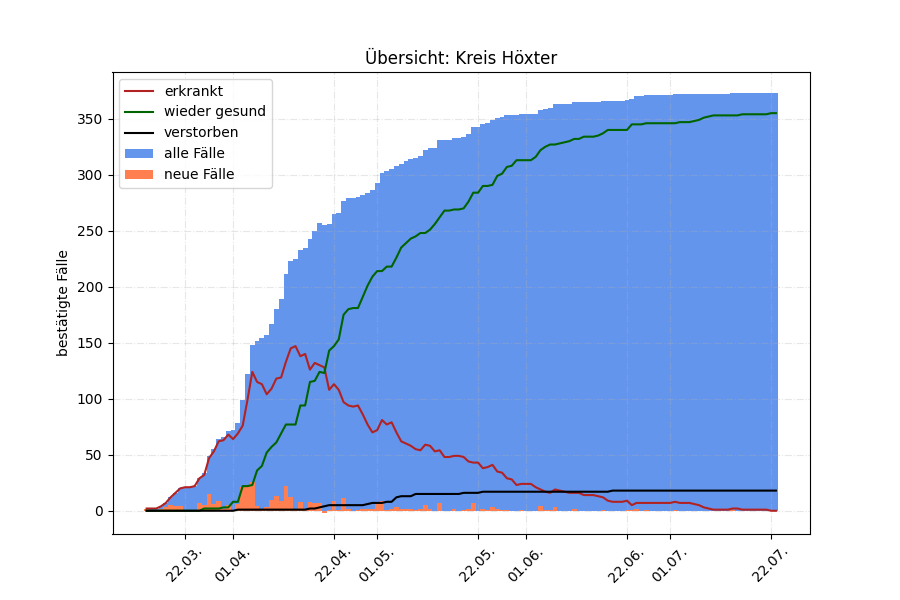
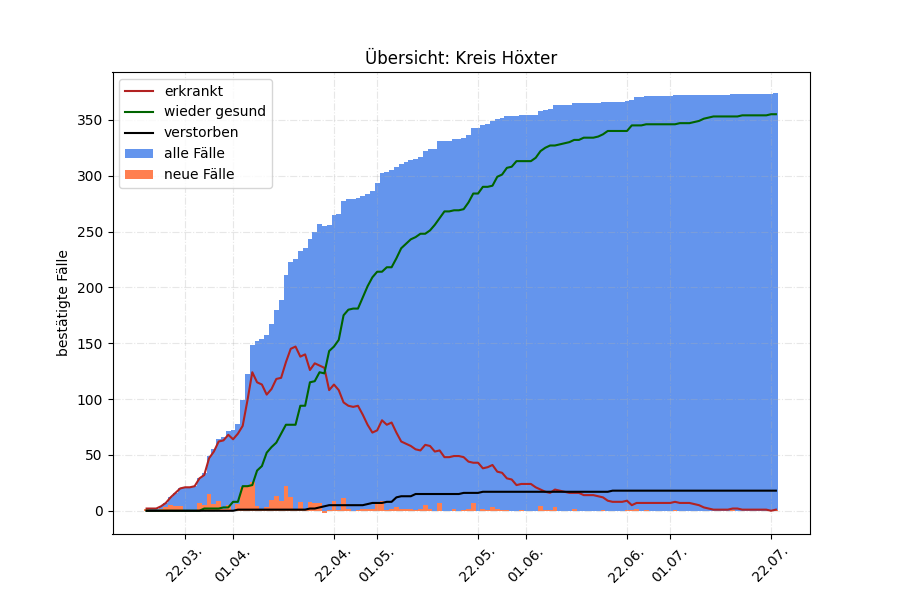
Stand 23. Juli 2

diff --git a/communes/marienmuenster.html b/communes/marienmuenster.html
@@ -18,10 +18,10 @@
 <meta property="og:url" content="https://covidoplot.github.io/communes/marienmuenster.html" />
 <meta property="og:site_name" content="Covid 19 im Kreis Höxter" />
 <meta property="og:type" content="article" />
-<meta property="article:published_time" content="2020-07-23T09:10:51+02:00" />
+<meta property="article:published_time" content="2020-07-23T09:16:53+02:00" />
 <meta name="google-site-verification" content="Jy9GjP1zJSZb24WTJkI5fc6zPYqWLYs0bo6EZXmsmKY" />
 <script type="application/ld+json">
-{"url":"https://covidoplot.github.io/communes/marienmuenster.html","headline":"Marienmünster","dateModified":"2020-07-23T09:10:51+02:00","datePublished":"2020-07-23T09:10:51+02:00","mainEntityOfPage":{"@type":"WebPage","@id":"https://covidoplot.github.io/communes/marienmuenster.html"},"author":{"@type":"Person","name":"Elmar Hinz"},"description":"Daten und Diagramme zur Coronavirus-Krankheit 2019 in Marienmünster","@type":"BlogPosting","@context":"https://schema.org"}</script>
+{"url":"https://covidoplot.github.io/communes/marienmuenster.html","headline":"Marienmünster","dateModified":"2020-07-23T09:16:53+02:00","datePublished":"2020-07-23T09:16:53+02:00","mainEntityOfPage":{"@type":"WebPage","@id":"https://covidoplot.github.io/communes/marienmuenster.html"},"author":{"@type":"Person","name":"Elmar Hinz"},"description":"Daten und Diagramme zur Coronavirus-Krankheit 2019 in Marienmünster","@type":"BlogPosting","@context":"https://schema.org"}</script>
 <!-- End Jekyll SEO tag -->
 
 </head>

diff --git a/communes/willebadessen.html b/communes/willebadessen.html
@@ -18,10 +18,10 @@
 <meta property="og:url" content="https://covidoplot.github.io/communes/willebadessen.html" />
 <meta property="og:site_name" content="Covid 19 im Kreis Höxter" />
 <meta property="og:type" content="article" />
-<meta property="article:published_time" content="2020-07-23T09:10:51+02:00" />
+<meta property="article:published_time" content="2020-07-23T09:16:53+02:00" />
 <meta name="google-site-verification" content="Jy9GjP1zJSZb24WTJkI5fc6zPYqWLYs0bo6EZXmsmKY" />
 <script type="application/ld+json">
-{"url":"https://covidoplot.github.io/communes/willebadessen.html","headline":"Willebadessen","dateModified":"2020-07-23T09:10:51+02:00","datePublished":"2020-07-23T09:10:51+02:00","mainEntityOfPage":{"@type":"WebPage","@id":"https://covidoplot.github.io/communes/willebadessen.html"},"author":{"@type":"Person","name":"Elmar Hinz"},"description":"Daten und Diagramme zur Coronavirus-Krankheit 2019 in Willebadessen","@type":"BlogPosting","@context":"https://schema.org"}</script>
+{"url":"https://covidoplot.github.io/communes/willebadessen.html","headline":"Willebadessen","dateModified":"2020-07-23T09:16:53+02:00","datePublished":"2020-07-23T09:16:53+02:00","mainEntityOfPage":{"@type":"WebPage","@id":"https://covidoplot.github.io/communes/willebadessen.html"},"author":{"@type":"Person","name":"Elmar Hinz"},"description":"Daten und Diagramme zur Coronavirus-Krankheit 2019 in Willebadessen","@type":"BlogPosting","@context":"https://schema.org"}</script>
 <!-- End Jekyll SEO tag -->
 
 </head>

diff --git a/communes/borgentreich.html b/communes/borgentreich.html
@@ -18,10 +18,10 @@
 <meta property="og:url" content="https://covidoplot.github.io/communes/borgentreich.html" />
 <meta property="og:site_name" content="Covid 19 im Kreis Höxter" />
 <meta property="og:type" content="article" />
-<meta property="article:published_time" content="2020-07-23T09:10:51+02:00" />
+<meta property="article:published_time" content="2020-07-23T09:16:53+02:00" />
 <meta name="google-site-verification" content="Jy9GjP1zJSZb24WTJkI5fc6zPYqWLYs0bo6EZXmsmKY" />
 <script type="application/ld+json">
-{"url":"https://covidoplot.github.io/communes/borgentreich.html","headline":"Borgentreich","dateModified":"2020-07-23T09:10:51+02:00","datePublished":"2020-07-23T09:10:51+02:00","mainEntityOfPage":{"@type":"WebPage","@id":"https://covidoplot.github.io/communes/borgentreich.html"},"author":{"@type":"Person","name":"Elmar Hinz"},"description":"Daten und Diagramme zur Coronavirus-Krankheit 2019 in Borgentreich","@type":"BlogPosting","@context":"https://schema.org"}</script>
+{"url":"https://covidoplot.github.io/communes/borgentreich.html","headline":"Borgentreich","dateModified":"2020-07-23T09:16:53+02:00","datePublished":"2020-07-23T09:16:53+02:00","mainEntityOfPage":{"@type":"WebPage","@id":"https://covidoplot.github.io/communes/borgentreich.html"},"author":{"@type":"Person","name":"Elmar Hinz"},"description":"Daten und Diagramme zur Coronavirus-Krankheit 2019 in Borgentreich","@type":"BlogPosting","@context":"https://schema.org"}</script>
 <!-- End Jekyll SEO tag -->
 
 </head>

diff --git a/communes/bad-driburg.html b/communes/bad-driburg.html
@@ -18,10 +18,10 @@
 <meta property="og:url" content="https://covidoplot.github.io/communes/bad-driburg.html" />
 <meta property="og:site_name" content="Covid 19 im Kreis Höxter" />
 <meta property="og:type" content="article" />
-<meta property="article:published_time" content="2020-07-23T09:10:51+02:00" />
+<meta property="article:published_time" content="2020-07-23T09:16:53+02:00" />
 <meta name="google-site-verification" content="Jy9GjP1zJSZb24WTJkI5fc6zPYqWLYs0bo6EZXmsmKY" />
 <script type="application/ld+json">
-{"url":"https://covidoplot.github.io/communes/bad-driburg.html","headline":"Bad Driburg","dateModified":"2020-07-23T09:10:51+02:00","datePublished":"2020-07-23T09:10:51+02:00","mainEntityOfPage":{"@type":"WebPage","@id":"https://covidoplot.github.io/communes/bad-driburg.html"},"author":{"@type":"Person","name":"Elmar Hinz"},"description":"Daten und Diagramme zur Coronavirus-Krankheit 2019 in Bad Driburg","@type":"BlogPosting","@context":"https://schema.org"}</script>
+{"url":"https://covidoplot.github.io/communes/bad-driburg.html","headline":"Bad Driburg","dateModified":"2020-07-23T09:16:53+02:00","datePublished":"2020-07-23T09:16:53+02:00","mainEntityOfPage":{"@type":"WebPage","@id":"https://covidoplot.github.io/communes/bad-driburg.html"},"author":{"@type":"Person","name":"Elmar Hinz"},"description":"Daten und Diagramme zur Coronavirus-Krankheit 2019 in Bad Driburg","@type":"BlogPosting","@context":"https://schema.org"}</script>
 <!-- End Jekyll SEO tag -->
 
 </head>

diff --git a/communes/beverungen.html b/communes/beverungen.html
@@ -18,10 +18,10 @@
 <meta property="og:url" content="https://covidoplot.github.io/communes/beverungen.html" />
 <meta property="og:site_name" content="Covid 19 im Kreis Höxter" />
 <meta property="og:type" content="article" />
-<meta property="article:published_time" content="2020-07-23T09:10:51+02:00" />
+<meta property="article:published_time" content="2020-07-23T09:16:53+02:00" />
 <meta name="google-site-verification" content="Jy9GjP1zJSZb24WTJkI5fc6zPYqWLYs0bo6EZXmsmKY" />
 <script type="application/ld+json">
-{"url":"https://covidoplot.github.io/communes/beverungen.html","headline":"Beverungen","dateModified":"2020-07-23T09:10:51+02:00","datePublished":"2020-07-23T09:10:51+02:00","mainEntityOfPage":{"@type":"WebPage","@id":"https://covidoplot.github.io/communes/beverungen.html"},"author":{"@type":"Person","name":"Elmar Hinz"},"description":"Daten und Diagramme zur Coronavirus-Krankheit 2019 in Beverungen","@type":"BlogPosting","@context":"https://schema.org"}</script>
+{"url":"https://covidoplot.github.io/communes/beverungen.html","headline":"Beverungen","dateModified":"2020-07-23T09:16:53+02:00","datePublished":"2020-07-23T09:16:53+02:00","mainEntityOfPage":{"@type":"WebPage","@id":"https://covidoplot.github.io/communes/beverungen.html"},"author":{"@type":"Person","name":"Elmar Hinz"},"description":"Daten und Diagramme zur Coronavirus-Krankheit 2019 in Beverungen","@type":"BlogPosting","@context":"https://schema.org"}</script>
 <!-- End Jekyll SEO tag -->
 
 </head>

diff --git a/communes/steinheim.html b/communes/steinheim.html
@@ -18,10 +18,10 @@
 <meta property="og:url" content="https://covidoplot.github.io/communes/steinheim.html" />
 <meta property="og:site_name" content="Covid 19 im Kreis Höxter" />
 <meta property="og:type" content="article" />
-<meta property="article:published_time" content="2020-07-23T09:10:51+02:00" />
+<meta property="article:published_time" content="2020-07-23T09:16:53+02:00" />
 <meta name="google-site-verification" content="Jy9GjP1zJSZb24WTJkI5fc6zPYqWLYs0bo6EZXmsmKY" />
 <script type="application/ld+json">
-{"url":"https://covidoplot.github.io/communes/steinheim.html","headline":"Steinheim","dateModified":"2020-07-23T09:10:51+02:00","datePublished":"2020-07-23T09:10:51+02:00","mainEntityOfPage":{"@type":"WebPage","@id":"https://covidoplot.github.io/communes/steinheim.html"},"author":{"@type":"Person","name":"Elmar Hinz"},"description":"Daten und Diagramme zur Coronavirus-Krankheit 2019 in Steinheim","@type":"BlogPosting","@context":"https://schema.org"}</script>
+{"url":"https://covidoplot.github.io/communes/steinheim.html","headline":"Steinheim","dateModified":"2020-07-23T09:16:53+02:00","datePublished":"2020-07-23T09:16:53+02:00","mainEntityOfPage":{"@type":"WebPage","@id":"https://covidoplot.github.io/communes/steinheim.html"},"author":{"@type":"Person","name":"Elmar Hinz"},"description":"Daten und Diagramme zur Coronavirus-Krankheit 2019 in Steinheim","@type":"BlogPosting","@context":"https://schema.org"}</script>
 <!-- End Jekyll SEO tag -->
 
 </head>

diff --git a/communes/hoexter.html b/communes/hoexter.html
@@ -18,10 +18,10 @@
 <meta property="og:url" content="https://covidoplot.github.io/communes/hoexter.html" />
 <meta property="og:site_name" content="Covid 19 im Kreis Höxter" />
 <meta property="og:type" content="article" />
-<meta property="article:published_time" content="2020-07-23T09:10:51+02:00" />
+<meta property="article:published_time" content="2020-07-23T09:16:53+02:00" />
 <meta name="google-site-verification" content="Jy9GjP1zJSZb24WTJkI5fc6zPYqWLYs0bo6EZXmsmKY" />
 <script type="application/ld+json">
-{"url":"https://covidoplot.github.io/communes/hoexter.html","headline":"Höxter","dateModified":"2020-07-23T09:10:51+02:00","datePublished":"2020-07-23T09:10:51+02:00","mainEntityOfPage":{"@type":"WebPage","@id":"https://covidoplot.github.io/communes/hoexter.html"},"author":{"@type":"Person","name":"Elmar Hinz"},"description":"Daten und Diagramme zur Coronavirus-Krankheit 2019 in Höxter","@type":"BlogPosting","@context":"https://schema.org"}</script>
+{"url":"https://covidoplot.github.io/communes/hoexter.html","headline":"Höxter","dateModified":"2020-07-23T09:16:53+02:00","datePublished":"2020-07-23T09:16:53+02:00","mainEntityOfPage":{"@type":"WebPage","@id":"https://covidoplot.github.io/communes/hoexter.html"},"author":{"@type":"Person","name":"Elmar Hinz"},"description":"Daten und Diagramme zur Coronavirus-Krankheit 2019 in Höxter","@type":"BlogPosting","@context":"https://schema.org"}</script>
 <!-- End Jekyll SEO tag -->
 
 </head>

diff --git a/communes/nieheim.html b/communes/nieheim.html
@@ -18,10 +18,10 @@
 <meta property="og:url" content="https://covidoplot.github.io/communes/nieheim.html" />
 <meta property="og:site_name" content="Covid 19 im Kreis Höxter" />
 <meta property="og:type" content="article" />
-<meta property="article:published_time" content="2020-07-23T09:10:51+02:00" />
+<meta property="article:published_time" content="2020-07-23T09:16:53+02:00" />
 <meta name="google-site-verification" content="Jy9GjP1zJSZb24WTJkI5fc6zPYqWLYs0bo6EZXmsmKY" />
 <script type="application/ld+json">
-{"url":"https://covidoplot.github.io/communes/nieheim.html","headline":"Nieheim","dateModified":"2020-07-23T09:10:51+02:00","datePublished":"2020-07-23T09:10:51+02:00","mainEntityOfPage":{"@type":"WebPage","@id":"https://covidoplot.github.io/communes/nieheim.html"},"author":{"@type":"Person","name":"Elmar Hinz"},"description":"Daten und Diagramme zur Coronavirus-Krankheit 2019 in Nieheim","@type":"BlogPosting","@context":"https://schema.org"}</script>
+{"url":"https://covidoplot.github.io/communes/nieheim.html","headline":"Nieheim","dateModified":"2020-07-23T09:16:53+02:00","datePublished":"2020-07-23T09:16:53+02:00","mainEntityOfPage":{"@type":"WebPage","@id":"https://covidoplot.github.io/communes/nieheim.html"},"author":{"@type":"Person","name":"Elmar Hinz"},"description":"Daten und Diagramme zur Coronavirus-Krankheit 2019 in Nieheim","@type":"BlogPosting","@context":"https://schema.org"}</script>
 <!-- End Jekyll SEO tag -->
 
 </head>

diff --git a/communes/warburg.html b/communes/warburg.html
@@ -18,10 +18,10 @@
 <meta property="og:url" content="https://covidoplot.github.io/communes/warburg.html" />
 <meta property="og:site_name" content="Covid 19 im Kreis Höxter" />
 <meta property="og:type" content="article" />
-<meta property="article:published_time" content="2020-07-23T09:10:51+02:00" />
+<meta property="article:published_time" content="2020-07-23T09:16:53+02:00" />
 <meta name="google-site-verification" content="Jy9GjP1zJSZb24WTJkI5fc6zPYqWLYs0bo6EZXmsmKY" />
 <script type="application/ld+json">
-{"url":"https://covidoplot.github.io/communes/warburg.html","headline":"Warburg","dateModified":"2020-07-23T09:10:51+02:00","datePublished":"2020-07-23T09:10:51+02:00","mainEntityOfPage":{"@type":"WebPage","@id":"https://covidoplot.github.io/communes/warburg.html"},"author":{"@type":"Person","name":"Elmar Hinz"},"description":"Daten und Diagramme zur Coronavirus-Krankheit 2019 in Warburg","@type":"BlogPosting","@context":"https://schema.org"}</script>
+{"url":"https://covidoplot.github.io/communes/warburg.html","headline":"Warburg","dateModified":"2020-07-23T09:16:53+02:00","datePublished":"2020-07-23T09:16:53+02:00","mainEntityOfPage":{"@type":"WebPage","@id":"https://covidoplot.github.io/communes/warburg.html"},"author":{"@type":"Person","name":"Elmar Hinz"},"description":"Daten und Diagramme zur Coronavirus-Krankheit 2019 in Warburg","@type":"BlogPosting","@context":"https://schema.org"}</script>
 <!-- End Jekyll SEO tag -->
 
 </head>

diff --git a/communes/brakel.html b/communes/brakel.html
@@ -18,10 +18,10 @@
 <meta property="og:url" content="https://covidoplot.github.io/communes/brakel.html" />
 <meta property="og:site_name" content="Covid 19 im Kreis Höxter" />
 <meta property="og:type" content="article" />
-<meta property="article:published_time" content="2020-07-23T09:10:51+02:00" />
+<meta property="article:published_time" content="2020-07-23T09:16:53+02:00" />
 <meta name="google-site-verification" content="Jy9GjP1zJSZb24WTJkI5fc6zPYqWLYs0bo6EZXmsmKY" />
 <script type="application/ld+json">
-{"url":"https://covidoplot.github.io/communes/brakel.html","headline":"Brakel","dateModified":"2020-07-23T09:10:51+02:00","datePublished":"2020-07-23T09:10:51+02:00","mainEntityOfPage":{"@type":"WebPage","@id":"https://covidoplot.github.io/communes/brakel.html"},"author":{"@type":"Person","name":"Elmar Hinz"},"description":"Daten und Diagramme zur Coronavirus-Krankheit 2019 in Brakel","@type":"BlogPosting","@context":"https://schema.org"}</script>
+{"url":"https://covidoplot.github.io/communes/brakel.html","headline":"Brakel","dateModified":"2020-07-23T09:16:53+02:00","datePublished":"2020-07-23T09:16:53+02:00","mainEntityOfPage":{"@type":"WebPage","@id":"https://covidoplot.github.io/communes/brakel.html"},"author":{"@type":"Person","name":"Elmar Hinz"},"description":"Daten und Diagramme zur Coronavirus-Krankheit 2019 in Brakel","@type":"BlogPosting","@context":"https://schema.org"}</script>
 <!-- End Jekyll SEO tag -->
 
 </head>

diff --git a/kreis-hoexter.html b/kreis-hoexter.html
@@ -323,7 +323,9 @@
         <tfoot>
         <tr class="">
             <th scope="row" class="table-secondary">Insgesamt</th>
-            <td class="table-secondary">0
+            <td class="table-secondary">1
+                
+                <small>(0)</small>
                 
             </td>
             <td class="table-secondary">355
@@ -332,7 +334,9 @@
             <td class="table-secondary">18
                 
             </td>
-            <td class="table-secondary"><strong>373
+            <td class="table-secondary"><strong>374
+                
+                <small>(373)</small>
                 
             </strong></td>
         </tr>
@@ -1665,10 +1669,10 @@
         
         <tr>
             <td class="table-secondary">23. July</td>
-            <td>0</td>
+            <td>1</td>
             <td>355</td>
             <td>18</td>
-            <td class="table-secondary">373</td>
+            <td class="table-secondary">374</td>
         </tr>
         
         </tbody>

diff --git a/index.html b/index.html
@@ -100,10 +100,10 @@
         </thead>
         <tbody>
         <tr>
-            <td>0</td>
+            <td>1</td>
             <td>355</td>
             <td>18</td>
-            <td><strong>373</strong></td>
+            <td><strong>374</strong></td>
         </tr>
         </tbody>
     </table>
